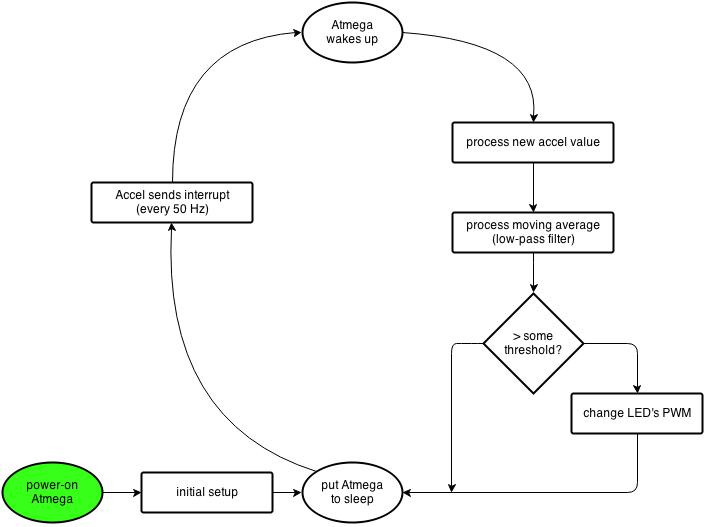
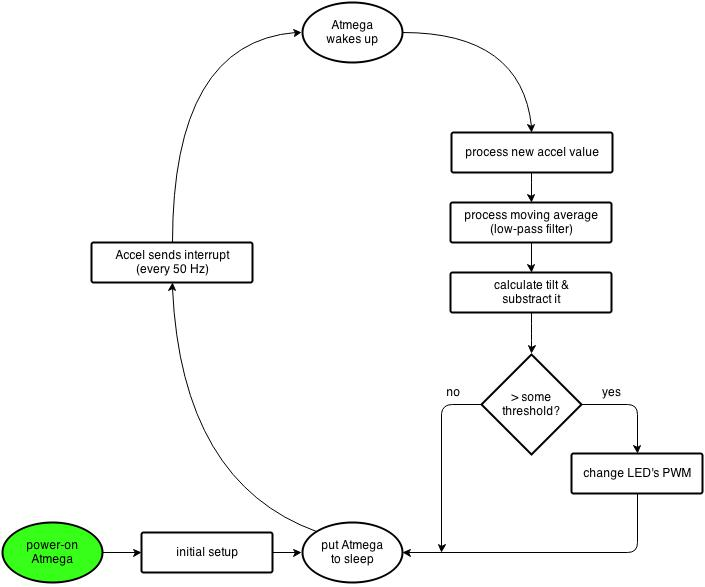
code cleanup, added thresholds, redone flowchart

diff --git a/README.md b/README.md
@@ -19,12 +19,12 @@ mode: the light will switch itself off if not moved for a while.
     - [x] Fix clock timing from atmega and accel.
     - [x] Filter accel info (Butterworth filters, averages?).
     - [ ] ~~Calibrate the direction at the beginning.~~
-    - [ ] ~~Save a vector of direction meanwhile it is in movement.~~
+    - [ ] Save a vector of direction/tilt meanwhile it is in movement.
     - [ ] Detect braking. 
  - [ ] Set up powerful final LED.
  - [ ] Power it by batteries.
  - [ ] Go to low power mode on atmega and accelerometer if there isn't movement for 1 minute. Set up wake-up.
- - [ ] End prototype phase: abandon Arduino format, program ~~an ATmega328~~ a 3.3v powered Atmega. Design final HW format.
+ - [ ] End prototype phase: abandon Arduino format, program an ATmega328. Design final HW format.
  - [ ] Pack it for use on the bike!
  - [ ] ?
  - [ ] Profit!
